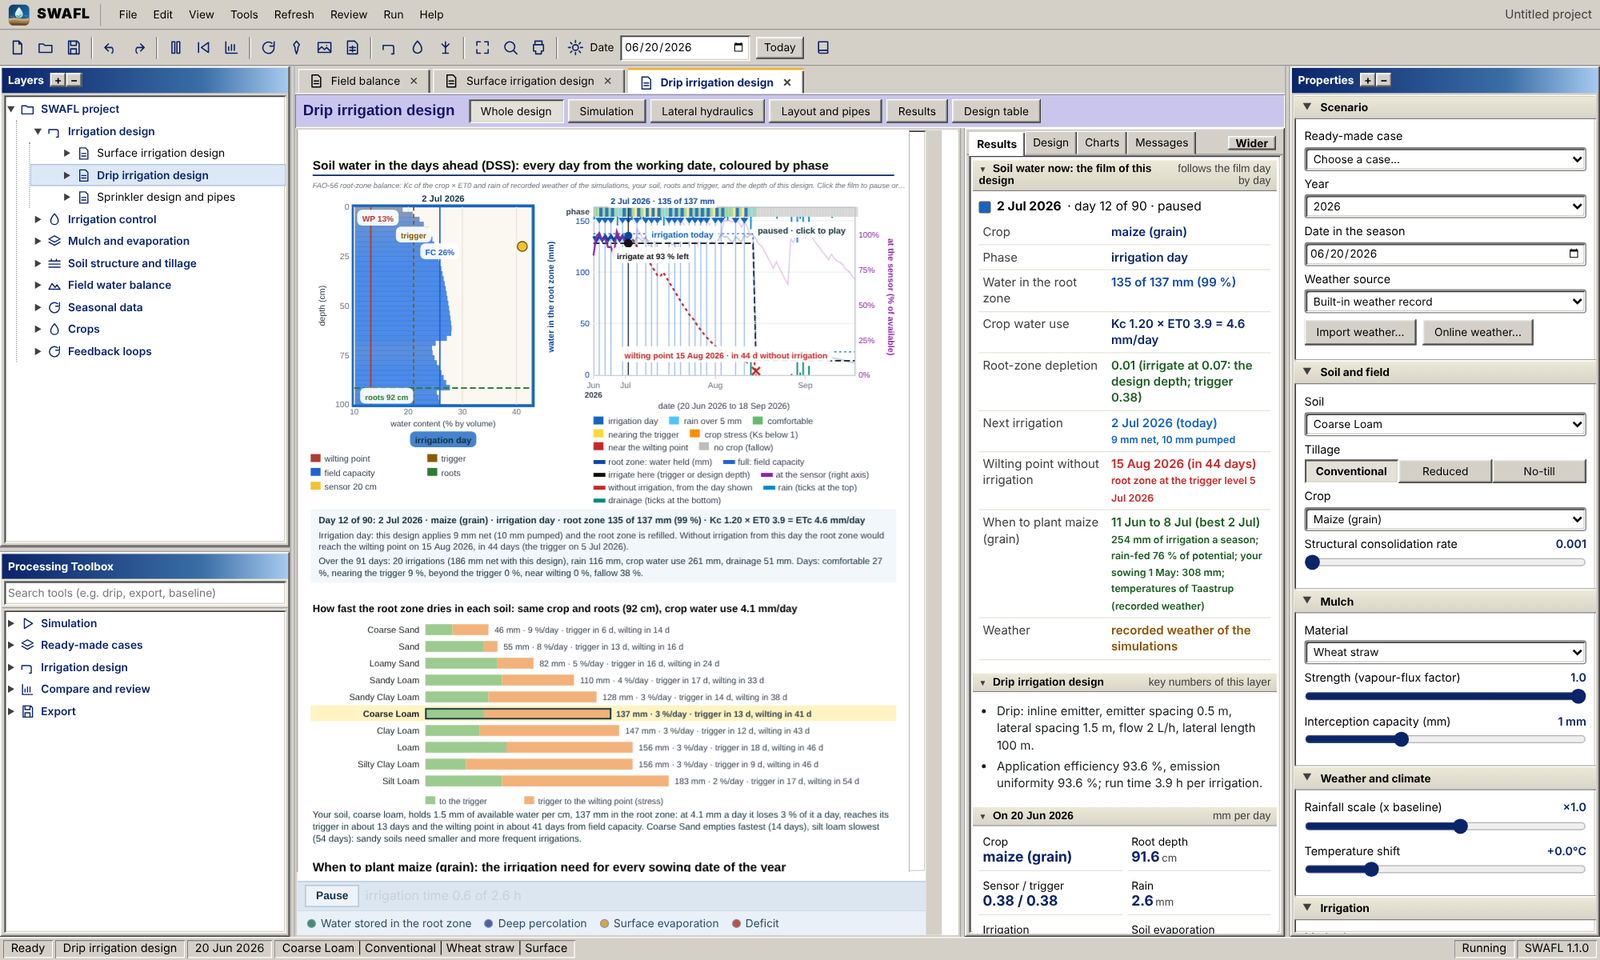
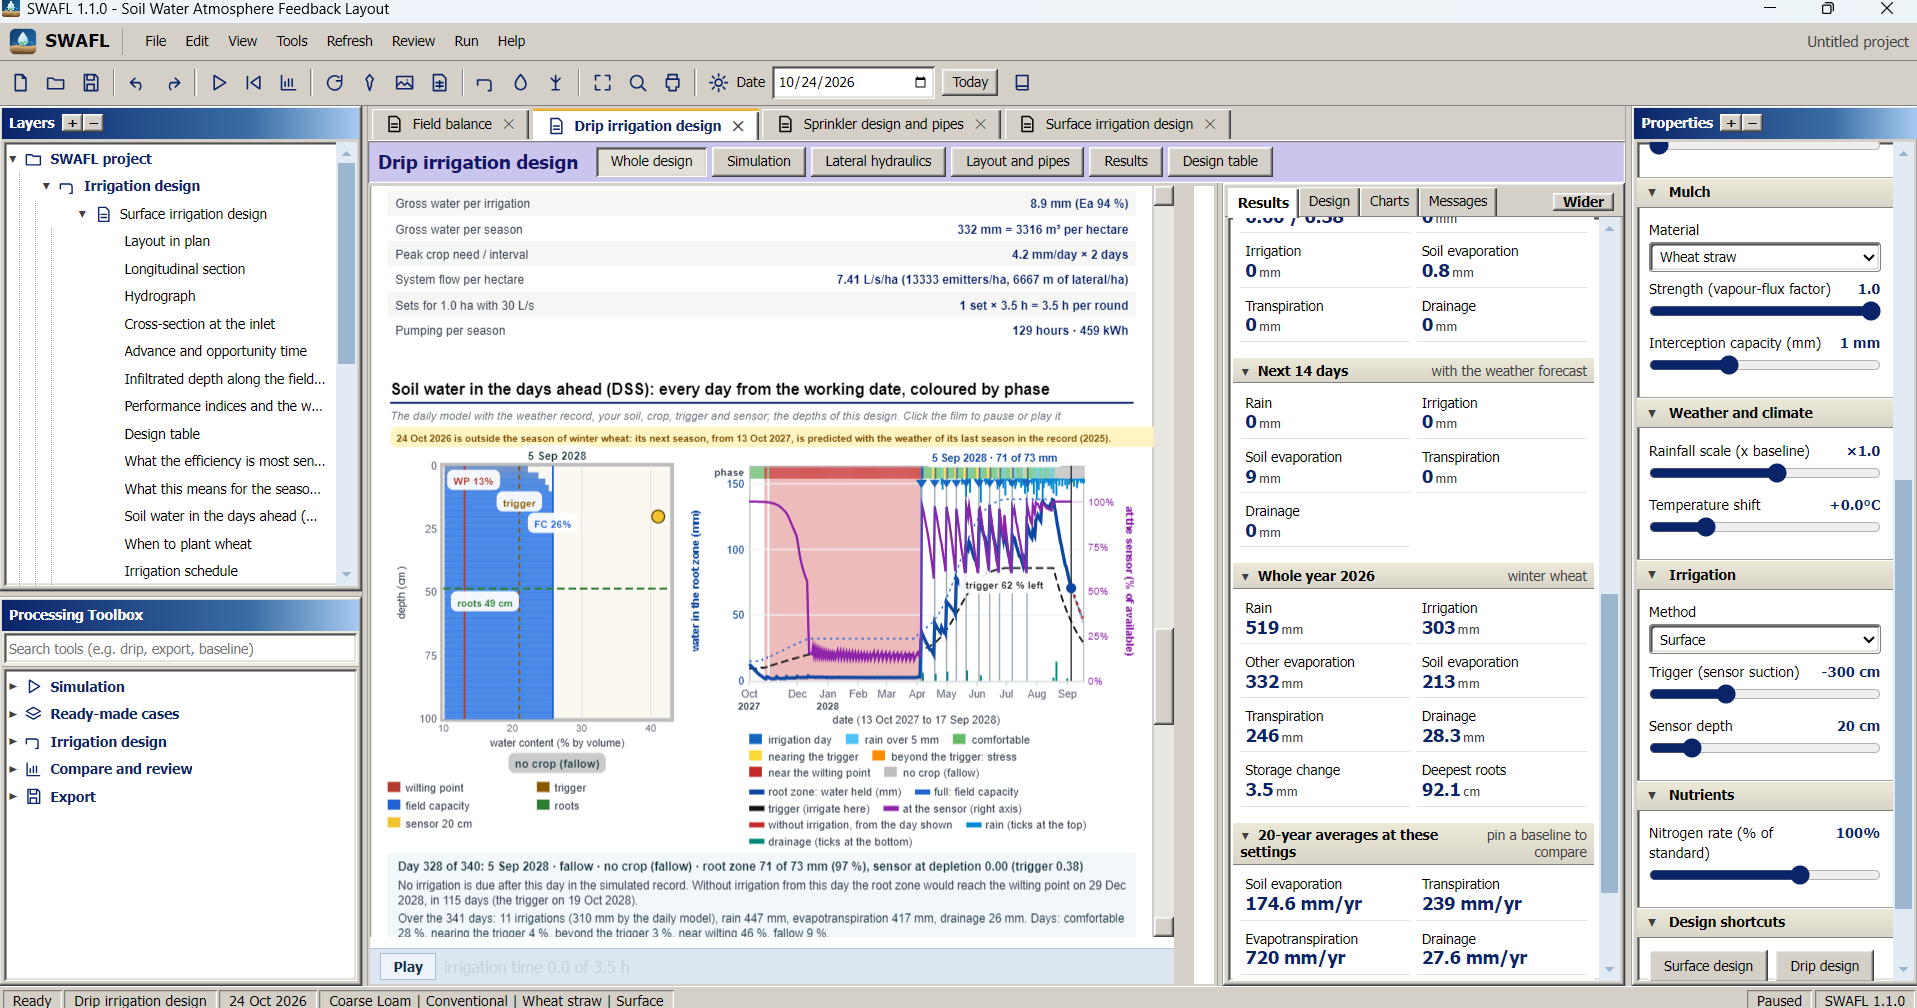
Overview: first screenshot replaced with the drip design and the soil water of the days ahead

diff --git a/README.md b/README.md
@@ -28,9 +28,9 @@ water-balance account of where evaporation saved by mulching actually goes, and 
 regime map of when the dominant water-loss pathway switches from evaporation to
 drainage.
 
-<a href="https://halilunaziru73-creator.github.io/Coupled-Water-Fluxes-Pore-Scale-Dynamics-Precision-Irrigation-Mulching-Feedback-Loops/Software/v1.1.0/SWAFL_Desktop/app/index.html?v=1.1.0"><img src="https://raw.githubusercontent.com/halilunaziru73-creator/halilunaziru73-creator/main/assets/swafl_desktop_online_110.png" width="100%" alt="SWAFL Desktop 1.1.0 online: the drip irrigation design with the soil water of the days ahead, the dashboard, layers and properties"></a>
+<a href="https://halilunaziru73-creator.github.io/Coupled-Water-Fluxes-Pore-Scale-Dynamics-Precision-Irrigation-Mulching-Feedback-Loops/Software/v1.1.0/SWAFL_Desktop/app/index.html?v=1.1.0"><img src="https://raw.githubusercontent.com/halilunaziru73-creator/halilunaziru73-creator/main/assets/swafl_desktop_online_110.png" width="100%" alt="SWAFL Desktop 1.1.0: the drip irrigation design with the soil water of the days ahead (DSS)"></a>
 
-*SWAFL Desktop 1.1.0, the online version (nothing to install): the drip irrigation design with the soil water of the days ahead and its irrigation schedule (FAO-56, crop Kc × ET0 of the weather in use), the Dashboard, the Layers and the Properties. Click the picture to open it live.*
+*SWAFL Desktop 1.1.0: the drip irrigation design with the soil water of the days ahead (DSS), every day from the working date coloured by phase, the root-zone water against field capacity and the trigger, the next irrigation and the wilting point without irrigation, beside the Dashboard and the Properties. Click the picture to open the online version.*
 
 <a href="https://halilunaziru73-creator.github.io/Coupled-Water-Fluxes-Pore-Scale-Dynamics-Precision-Irrigation-Mulching-Feedback-Loops/Software/v1.1.0/SWAFL_Desktop/app/index.html?v=1.1.0"><img src="https://raw.githubusercontent.com/halilunaziru73-creator/halilunaziru73-creator/main/assets/swafl_field_on_the_map_110.png" width="100%" alt="SWAFL Desktop 1.1.0, Tools, Field on the map: a real field demarcated on the satellite image with its Sentinel-2 NDVI and management zones"></a>
 
